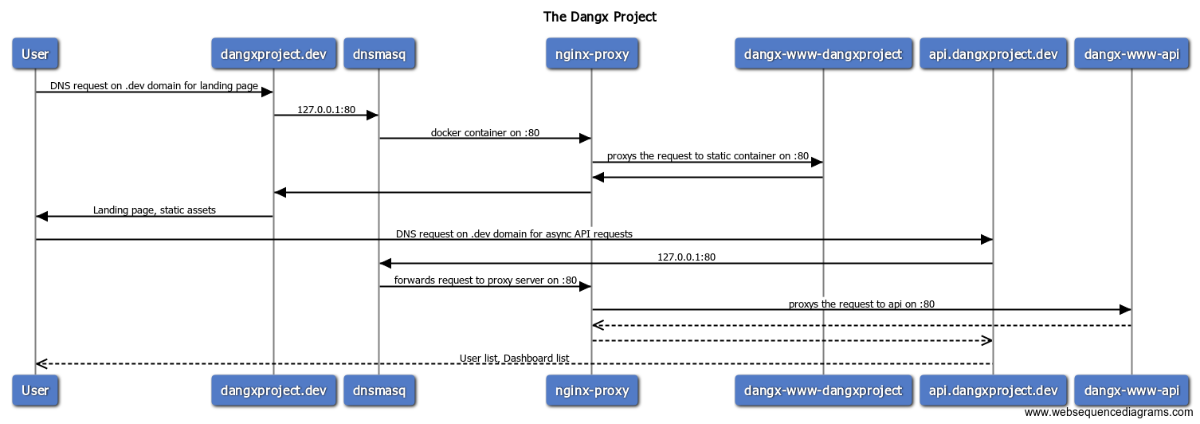
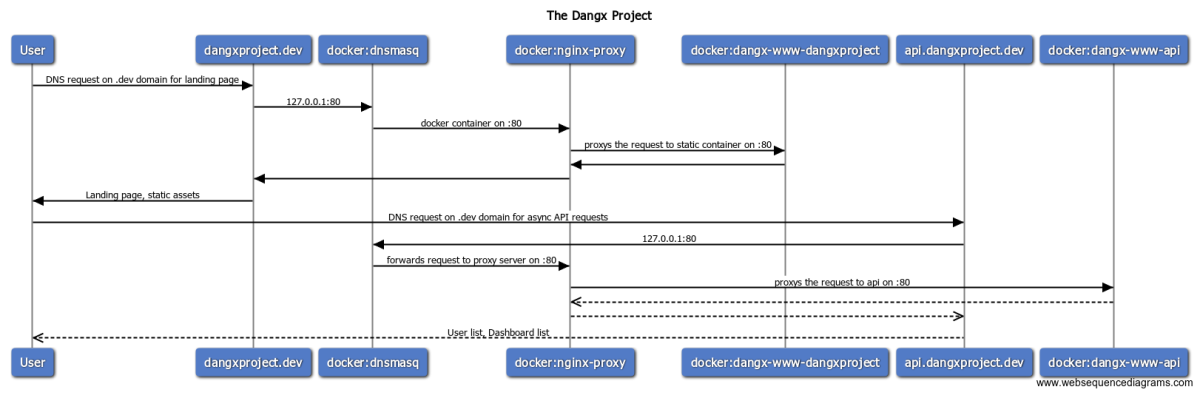
chore: typo, diagram updates

Changed region(s): [[0.0, 0.0305, 1.0, 1.0], [0.6475, 0.5482, 0.7092, 0.5787], [0.185, 0.5482, 0.2467, 0.5787]]

diff --git a/content/post/microservices-with-docker-alpine-nodejs-nginx-win10.md b/content/post/microservices-with-docker-alpine-nodejs-nginx-win10.md
@@ -10,13 +10,13 @@ title = "Microservices with Docker, Alpine Linux, Nodejs, Nginx on Win10 Host"
 
 Apology for the last word "Win10", it's bit misleading but my main development machine is Dell XPS 13 on Windows 10 Pro Insider Preview. There's should be a follow up to this blog hopefully on my [headless Ubuntu Server](http://yup-the-website-domain-is.mindginative.com/post/asrock-deskmini-110w-with-ubuntu-server/).
 
-Btw, it's just a PITA to get this thing working on my Win10 machine - too many wrangling with Windows GUI DNS settings, Docker vEthernet adapter then a mixed of CLI scripts, some won't on plain CLI commands then discovered that wrapping it inside docker-compose.yml does trick. C-R-A-Z-Y-!
+BTW, it's a PITA to get this thing working on my Win10 machine - too many wrangling with Windows GUI DNS settings, Docker vEthernet adapter then a mixed of CLI scripts, some won't work on plain CLI commands later then I discovered that wrapping it inside docker-compose.yml does the trick. C-R-A-Z-Y-!
 
 <img src="/images/microservices/win10-docker-dnsmasq-configuration.jpg" width="800" style="-webkit-box-shadow: 10px 10px 8px 0px rgba(156,156,156,0.27);-moz-box-shadow: 10px 10px 8px 0px rgba(156,156,156,0.27);box-shadow: 10px 10px 8px 0px rgba(156,156,156,0.27);">
 
 ## Rationale
 
-I had this vision from last year (2016) while I was working on couple projects: NodeJS APIs, setting up infras (CI), deployments, standing up AWS services -  to do some automated orchestration of infrastructures and its services, it just got materialised recently, and with some help from [1] [2].
+I had this vision from last year (2016) while I was working on couple projects: NodeJS APIs, setting up infras (CI), deployments, standing up AWS services -  to do some automated orchestration of infrastructures and its services, stick inside a container. It just got materialised recently, and with some help from [1] [2].
 
 ## Dangx Project
 
@@ -38,13 +38,13 @@ see https://github.com/rixrix/dangx-project
 * Domain and its containers
   * http://dangxproject.dev
       * dangx-www-dangxproject
-      * nginx static server
+      * Nginx static server
   * http://api.dangxproject.dev
       * dangx-www-api
       * NodeJS/Express server
   * http://whoami.dangxproject.dev
       * dangx-www-whoami
-      * nginx test server
+      * Nginx test server
 
 ### Commands
 
@@ -59,7 +59,7 @@ see https://github.com/rixrix/dangx-project
 
 ## Note
 
-This is a short write up about its purpose, functionality and configuration, feel free to ask or file an [issue over at Github](https://github.com/rixrix/dangx-project). The references below should give you enough information about what it does.
+This is a short write up about its purpose, functionality and configuration, feel free to ask or file an [issue over at Github](https://github.com/rixrix/dangx-project). The references below should give you the nitty-gritty.
 
 ## Future Plan
 
@@ -68,9 +68,8 @@ I'm excited about the current state of this project, and I'd like to move forwar
 * Deploy to AWS
 * Infrastructure management with Terraform.io
 * Multi-cloud deployment eg: Google Cloud, AWS, Azure
-* CI
-* Security
-* Automated Testing
+* CI (automated: testing, deployment)
+* Security (SSL, etc)
 * Blue/Green deployment
 * Spin-off sample/cool projects from this project
 
